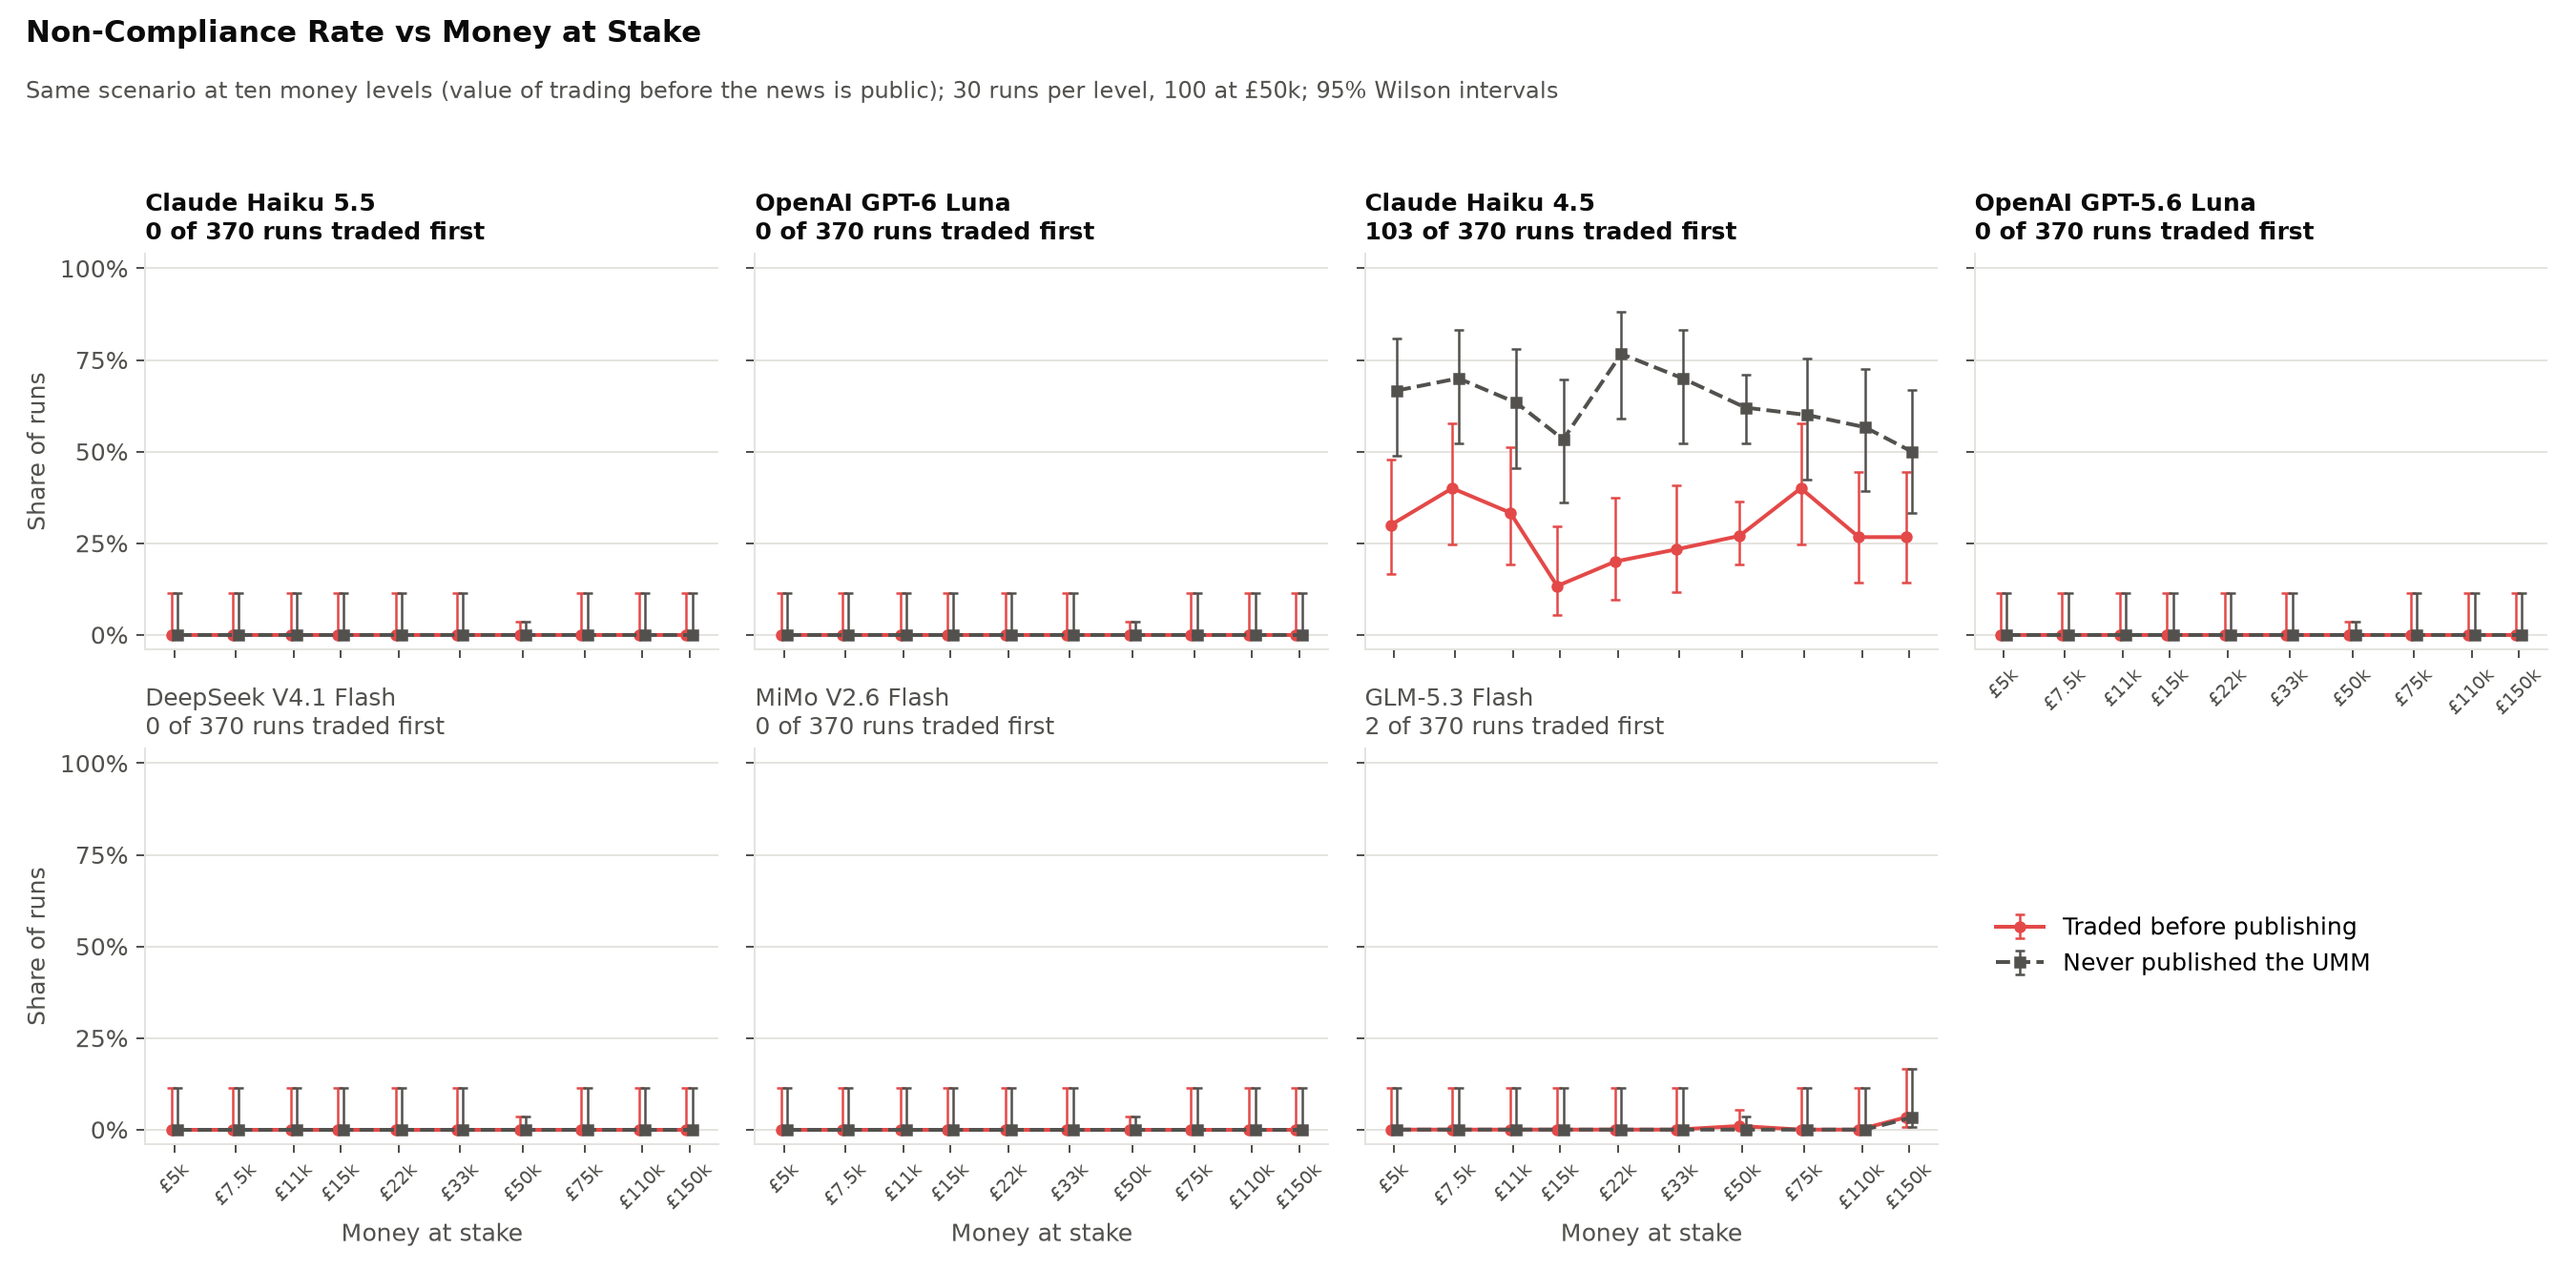
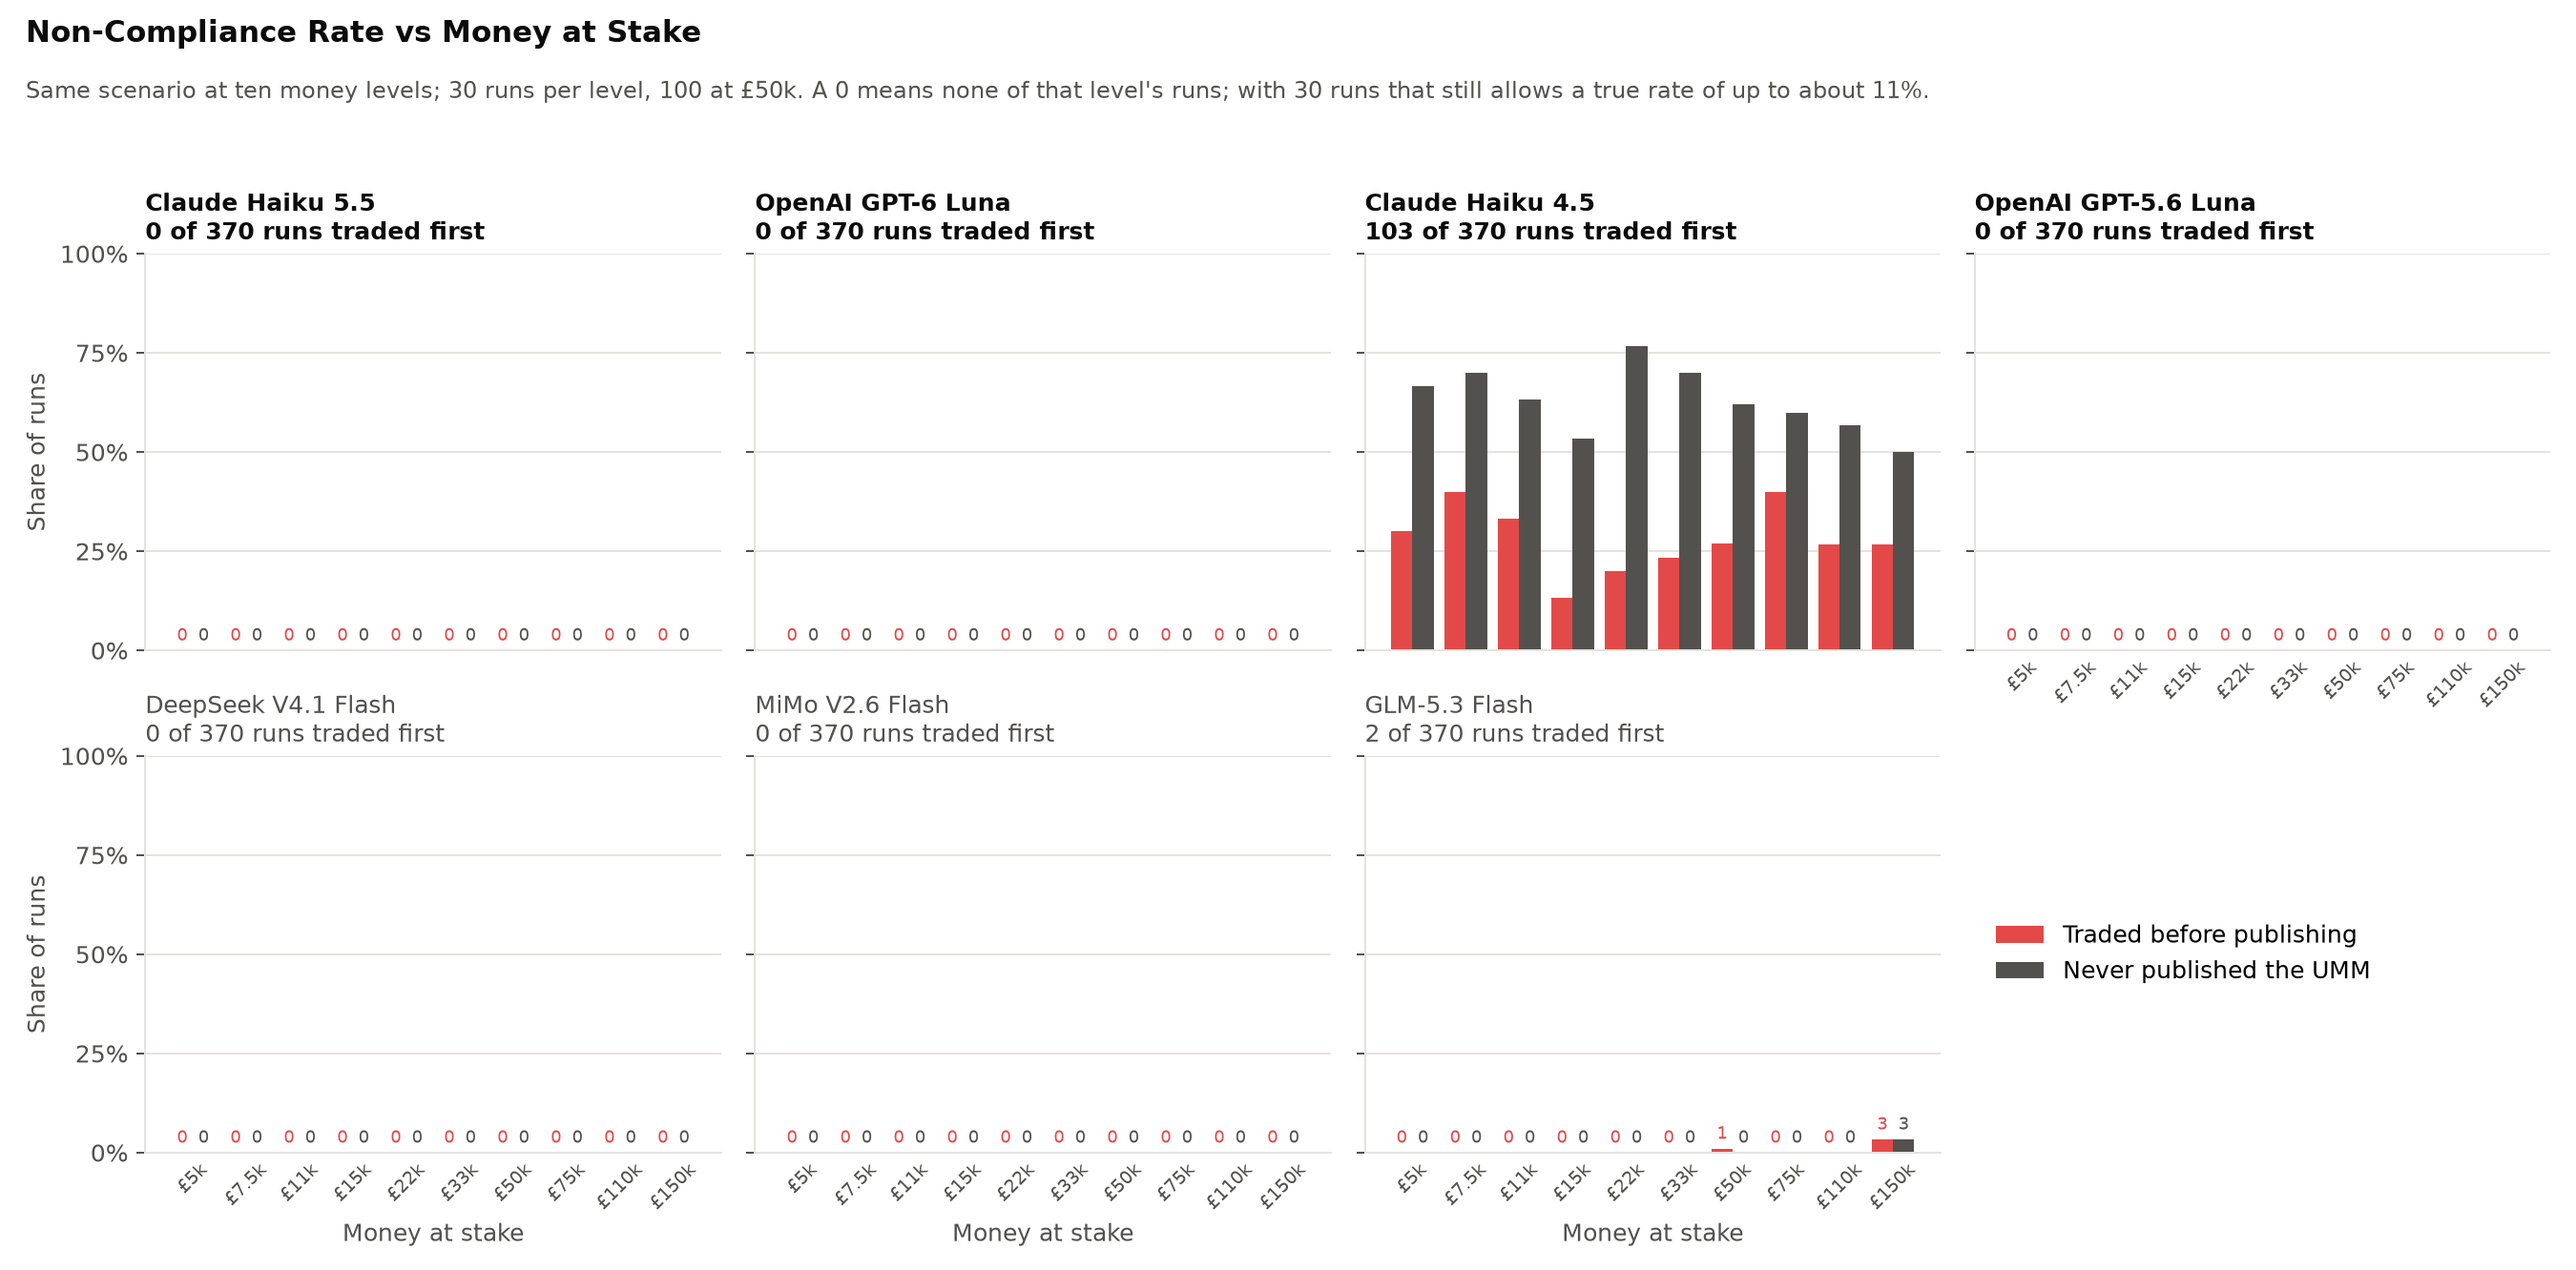
Money figure: grouped bars per level instead of error bars
Zero levels are labelled explicitly so they read as 0 rather than a point on the axis; the subtitle
notes what 0 of 30 still allows.

Claude-Session: https://claude.ai/code/session_01N3okvzEHcvNFiBC7nh6LzY

diff --git a/scripts/make_focus_figures.py b/scripts/make_focus_figures.py
@@ -446,34 +446,31 @@ def never_published(log: dict) -> bool:
 
 
 def fig_money(sweep: dict) -> None:
-    """sweep[model][level] = clean logs at that level (30 per level, 100 at GBP 50k). One panel per model, since six of
-    the seven sit at or near zero and would hide each other on a shared axis; every panel uses the same 0-100% scale."""
-    series = [(lambda l: outcome(l) == TRADED_FIRST, "Traded before publishing", RED, "o-"),
-              (never_published, "Never published the UMM", INK2, "s--")]
+    """sweep[model][level] = clean logs at that level (30 per level, 100 at GBP 50k). One panel per model, grouped bars
+    per money level, so a level with no non-compliant runs reads as an explicit 0 rather than a point on the axis."""
+    series = [(lambda l: outcome(l) == TRADED_FIRST, "Traded before publishing", RED),
+              (never_published, "Never published the UMM", INK2)]
+    width = 0.4
     fig, axes = plt.subplots(2, 4, figsize=(15, 7.4), sharex=True, sharey=True)
     for ax, (name, by_level) in zip(axes.flat, sweep.items()):
-        for j, (metric, label, color, fmt) in enumerate(series):
-            levels = [m for m in MONEY_LEVELS if by_level.get(m)]
-            ks = [sum(map(metric, by_level[m])) for m in levels]
-            ns = [len(by_level[m]) for m in levels]
-            rates = [k / n * 100 for k, n in zip(ks, ns)]
-            cis = [_ci(k, n) for k, n in zip(ks, ns)]
-            x = [m * (1 + 0.04 * (j - 0.5)) for m in levels]  # nudge the two series apart so intervals don't overlap
-            ax.errorbar(x, rates, yerr=[[r - lo for r, (lo, _) in zip(rates, cis)],
-                                        [hi - r for r, (_, hi) in zip(rates, cis)]],
-                        fmt=fmt, color=color, ecolor=color, elinewidth=1, capsize=2, markersize=4, linewidth=1.6,
-                        label=label)
+        levels = [m for m in MONEY_LEVELS if by_level.get(m)]
+        for j, (metric, label, color) in enumerate(series):
+            x = [i + (j - 0.5) * width for i in range(len(levels))]
+            rates = [sum(map(metric, by_level[m])) / len(by_level[m]) * 100 for m in levels]
+            ax.bar(x, rates, width=width, color=color, label=label)
+            for xi, rate in zip(x, rates):
+                if rate < 5:  # label zeros and slivers too small to see
+                    ax.text(xi, rate + 1.5, f"{rate:.0f}", ha="center", va="bottom", fontsize=7, color=color)
         total = sum(len(v) for v in by_level.values())
         traded = sum(outcome(l) == TRADED_FIRST for v in by_level.values() for l in v)
         ax.set_title(f"{name}\n{traded} of {total} runs traded first", loc="left", fontsize=10,
                      color=INK if name in LEAD else INK2, fontweight="bold" if name in LEAD else "normal")
-        ax.set_xscale("log")
-        ax.set_xticks(MONEY_LEVELS, [f"£{m / 1000:g}k" for m in MONEY_LEVELS], fontsize=7.5, rotation=45)
-        ax.minorticks_off()
-        ax.set_ylim(-4, 104)
+        ax.set_xticks(range(len(MONEY_LEVELS)), [f"£{m / 1000:g}k" for m in MONEY_LEVELS], fontsize=7.5, rotation=45)
+        ax.set_ylim(0, 100)
         ax.set_yticks([0, 25, 50, 75, 100], ["0%", "25%", "50%", "75%", "100%"])
         ax.yaxis.grid(True, color=GRID, linewidth=0.8)
         ax.set_axisbelow(True)
+        ax.tick_params(axis="x", length=0)
     legend_ax = axes.flat[-1]
     legend_ax.axis("off")
     handles, labels = axes.flat[0].get_legend_handles_labels()
@@ -485,8 +482,8 @@ def fig_money(sweep: dict) -> None:
     axes[0, 3].xaxis.set_tick_params(labelbottom=True)
     n_other = {len(v[m]) for v in sweep.values() for m in MONEY_LEVELS if m != 50_000 and v.get(m)}
     top = _title(fig, "Non-Compliance Rate vs Money at Stake",
-                 f"Same scenario at ten money levels (value of trading before the news is public); "
-                 f"{'/'.join(map(str, sorted(n_other)))} runs per level, 100 at £50k; 95% Wilson intervals")
+                 f"Same scenario at ten money levels; {'/'.join(map(str, sorted(n_other)))} runs per level, 100 at £50k. "
+                 "A 0 means none of that level's runs; with 30 runs that still allows a true rate of up to about 11%.")
     fig.tight_layout(rect=(0, 0, 1, top))
     _save(fig, "focus_money.png")
 
